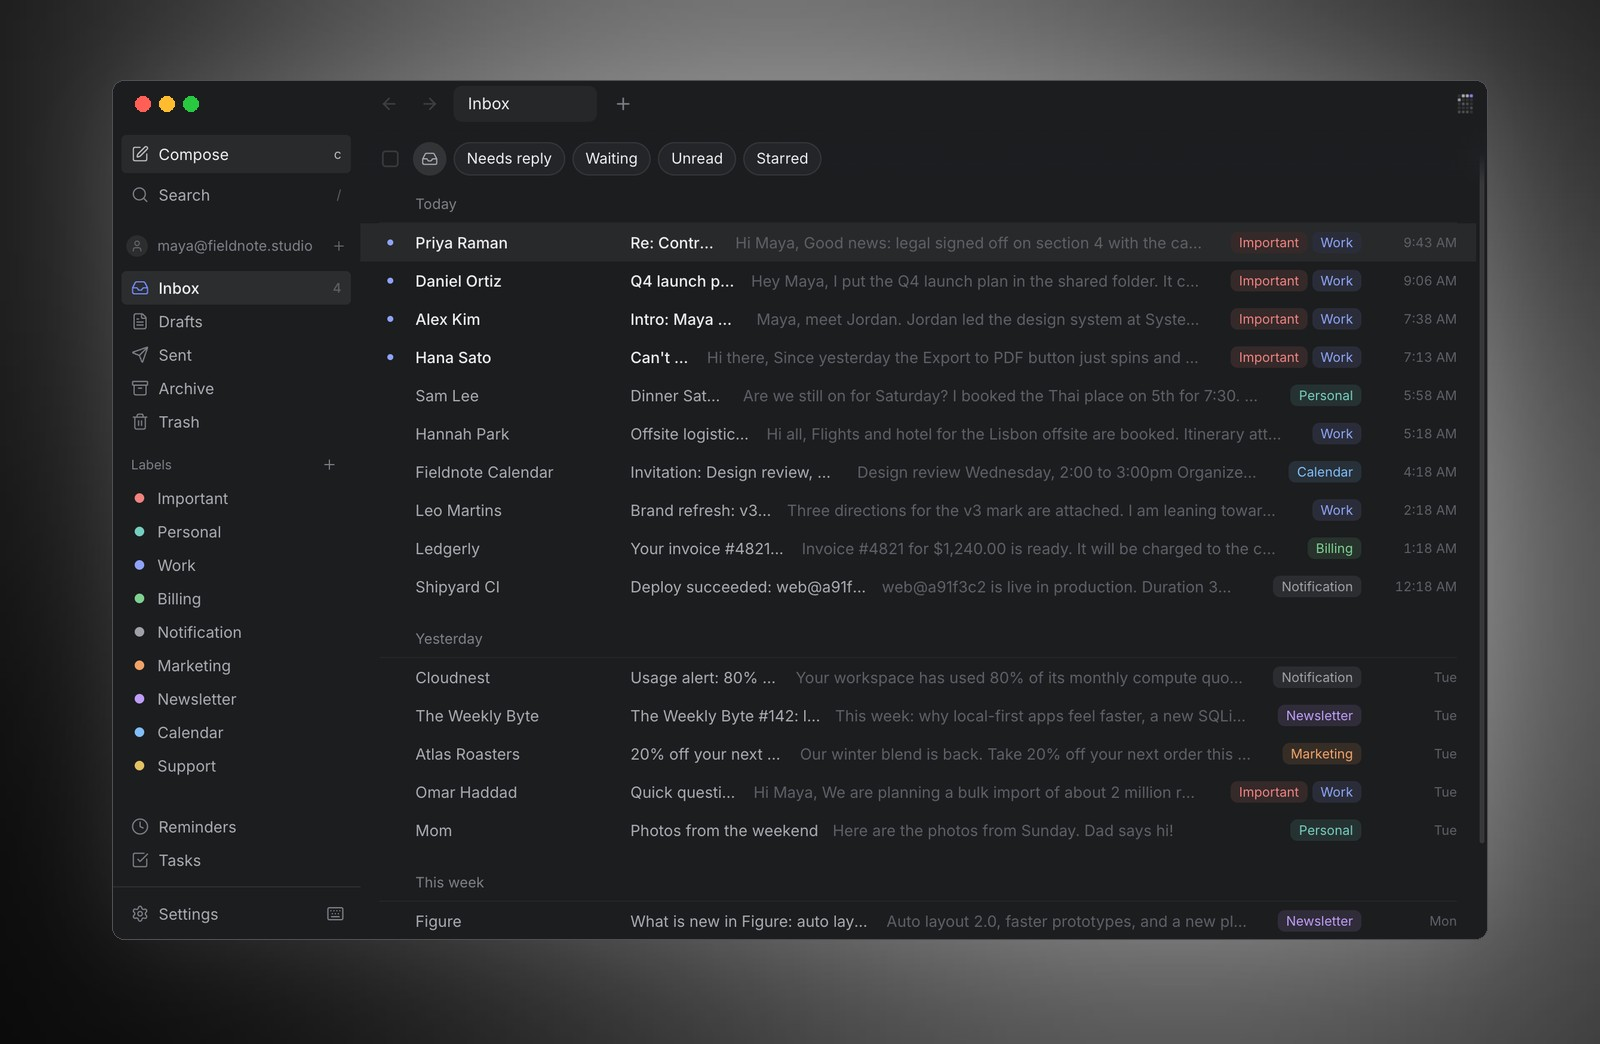
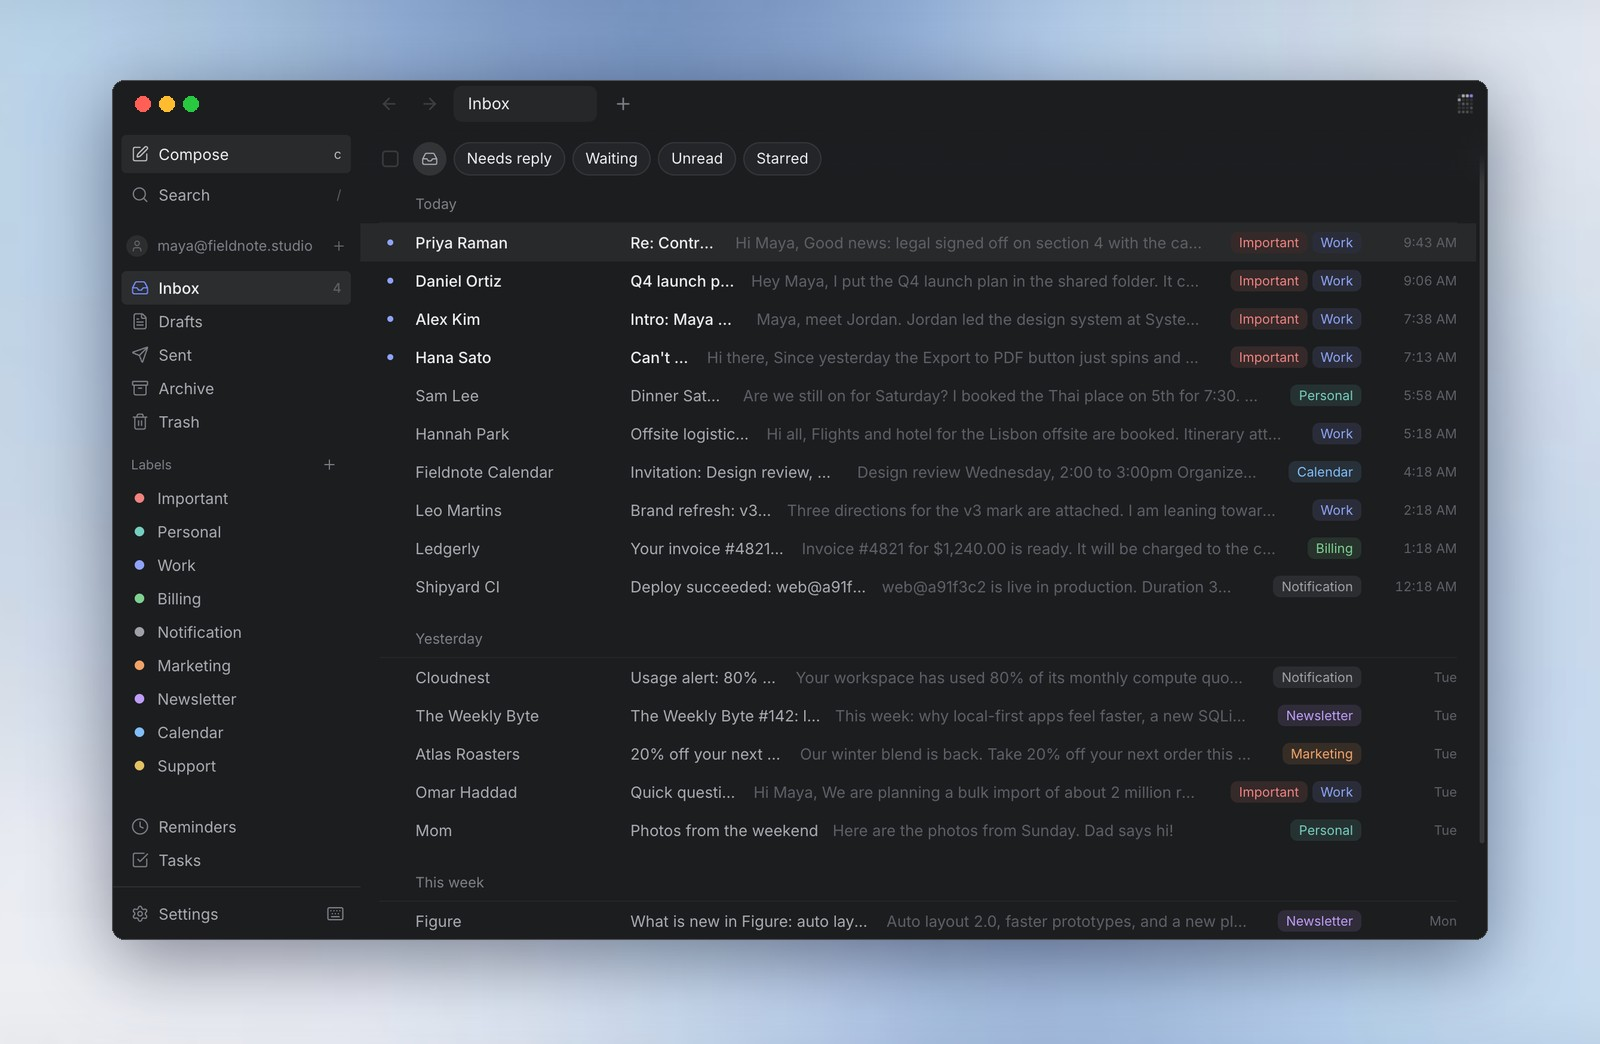
[feat] README hero on a photo backdrop
frame.py takes an optional backdrop image (SOVO_DEMO_BACKDROP in record.sh):
the photo cover-fit behind a drop shadow, as one still. The licensed photo
stays out of the repo; without it the animated gradient is still available.

Changed region(s): [[0.0, 0.0, 1.0, 1.0]]

diff --git a/scripts/readme-demo/frame.py b/scripts/readme-demo/frame.py
@@ -1,9 +1,11 @@
-"""frame.py <in.png> <out-dir> <window-points-width> [width] [frames]
+"""frame.py <in.png> <out-dir> <window-points-width> [width] [frames] [backdrop-image]
 
-Puts a window capture on a slowly moving black-and-white gradient: rounded
-corners, a soft glow and macOS traffic lights (the capture has no title bar;
-the app uses hiddenInset). Writes <out-dir>/0000.png… as one seamless loop,
-for img2webp, plus <out-dir>/still.jpg for the poster."""
+Puts a window capture on a backdrop with rounded corners and macOS traffic
+lights (the capture has no title bar; the app uses hiddenInset). With a
+backdrop image: one still, the photo cover-fit behind a drop shadow. Without:
+a slowly moving black-and-white gradient with a soft glow, written as
+<out-dir>/0000.png… (one seamless loop, for img2webp). Always writes
+<out-dir>/still.jpg."""
 import math
 import os
 import sys
@@ -15,6 +17,7 @@ src, out_dir = sys.argv[1], sys.argv[2]
 points = int(sys.argv[3])
 width = int(sys.argv[4]) if len(sys.argv) > 4 else 1600
 n_frames = int(sys.argv[5]) if len(sys.argv) > 5 else 60
+photo = sys.argv[6] if len(sys.argv) > 6 and sys.argv[6] else None
 os.makedirs(out_dir, exist_ok=True)
 
 # Window at output scale.
@@ -69,15 +72,31 @@ def backdrop(t):
     return Image.fromarray(np.uint8(g * 255), 'L').convert('RGB')
 
 
+def photo_backdrop():
+    """The photo scaled to cover, blurred a touch (hides compression blocks),
+    with a soft dark shadow under the window."""
+    im = Image.open(photo).convert('RGB')
+    k = max(BW / im.width, BH / im.height)
+    im = im.resize((round(im.width * k), round(im.height * k)), Image.LANCZOS)
+    x, y = (im.width - BW) // 2, (im.height - BH) // 2
+    bg = im.crop((x, y, x + BW, y + BH)).filter(ImageFilter.GaussianBlur(round(6 * s)))
+    sh = Image.new('L', (BW, BH), 0)
+    off = round(16 * s)
+    ImageDraw.Draw(sh).rounded_rectangle((pad_x, pad_top + off, pad_x + W, pad_top + H + off), r, fill=120)
+    sh = sh.filter(ImageFilter.GaussianBlur(round(30 * s)))
+    return Image.composite(Image.new('RGB', (BW, BH), (14, 18, 40)), bg, sh)
+
+
 def frame(t):
-    bg = backdrop(t)
+    bg = photo_backdrop() if photo else backdrop(t)
     bg.paste(win, (pad_x, pad_top), mask)
     ImageDraw.Draw(bg).rounded_rectangle((pad_x, pad_top, pad_x + W - 1, pad_top + H - 1), r,
                                          outline=(78, 78, 84), width=max(1, round(s * 0.5)))
     return bg
 
 
-for i in range(n_frames):
-    frame(i / n_frames).save(os.path.join(out_dir, f'{i:04d}.png'))
+if not photo:
+    for i in range(n_frames):
+        frame(i / n_frames).save(os.path.join(out_dir, f'{i:04d}.png'))
 frame(0).save(os.path.join(out_dir, 'still.jpg'), quality=90)
-print(n_frames, 'frames', BW, 'x', BH)
+print('still' if photo else f'{n_frames} frames', BW, 'x', BH)

diff --git a/scripts/readme-demo/README.md b/scripts/readme-demo/README.md
@@ -33,11 +33,16 @@ keystrokes with a keycap overlay, and writes `<scene>.webp` plus a
 | `rec.cjs` | Recording driver: screencast, keycaps, `press` / `type` / `waitFor` helpers |
 | `scenes/*.cjs` | One script per clip; `setup.cjs` sets the fake AI key |
 | `encode.sh` | Frames to a 15 fps, 1600 px looping WebP and poster |
-| `frame.py` | Puts the hero capture on a looping black-and-white gradient |
+| `frame.py` | Puts the hero capture on a backdrop: a photo, or a looping black-and-white gradient |
 
 The demo profile and frames live in `$TMPDIR/sovo-readme-demo`
 (`SOVO_DEMO_WORK` to move it). Delete that folder to start from a new profile.
 `SOVO_DEMO_ASSETS` writes the results somewhere other than `docs/assets/readme`.
+
+The README hero sits on a licensed stock photo that is not in the repo. To
+rebuild it, pass the image: `SOVO_DEMO_BACKDROP=~/path/to/photo.avif record.sh hero`.
+Without it the hero gets an animated black-and-white gradient (`hero.webp`);
+then point the README's hero back at that file.
 
 To add a clip, copy a scene, record it, and add a row to the Features table in
 the top-level README.

diff --git a/README.md b/README.md
@@ -17,7 +17,7 @@
 <h3 align="center"><a href="https://sovomail.xyz"><ins>Get Sovo at sovomail.xyz</ins></a></h3>
 
 <p align="center">
-  <picture><source srcset="docs/assets/readme/hero.webp" type="image/webp"><img src="docs/assets/readme/hero.jpg" alt="The Sovo inbox in dark mode, with mail grouped by day and Important, Work and Billing labels" width="960" /></picture>
+  <img src="docs/assets/readme/hero.jpg" alt="The Sovo inbox in dark mode, with mail grouped by day and Important, Work and Billing labels" width="960" />
 </p>
 
 <p align="center">
